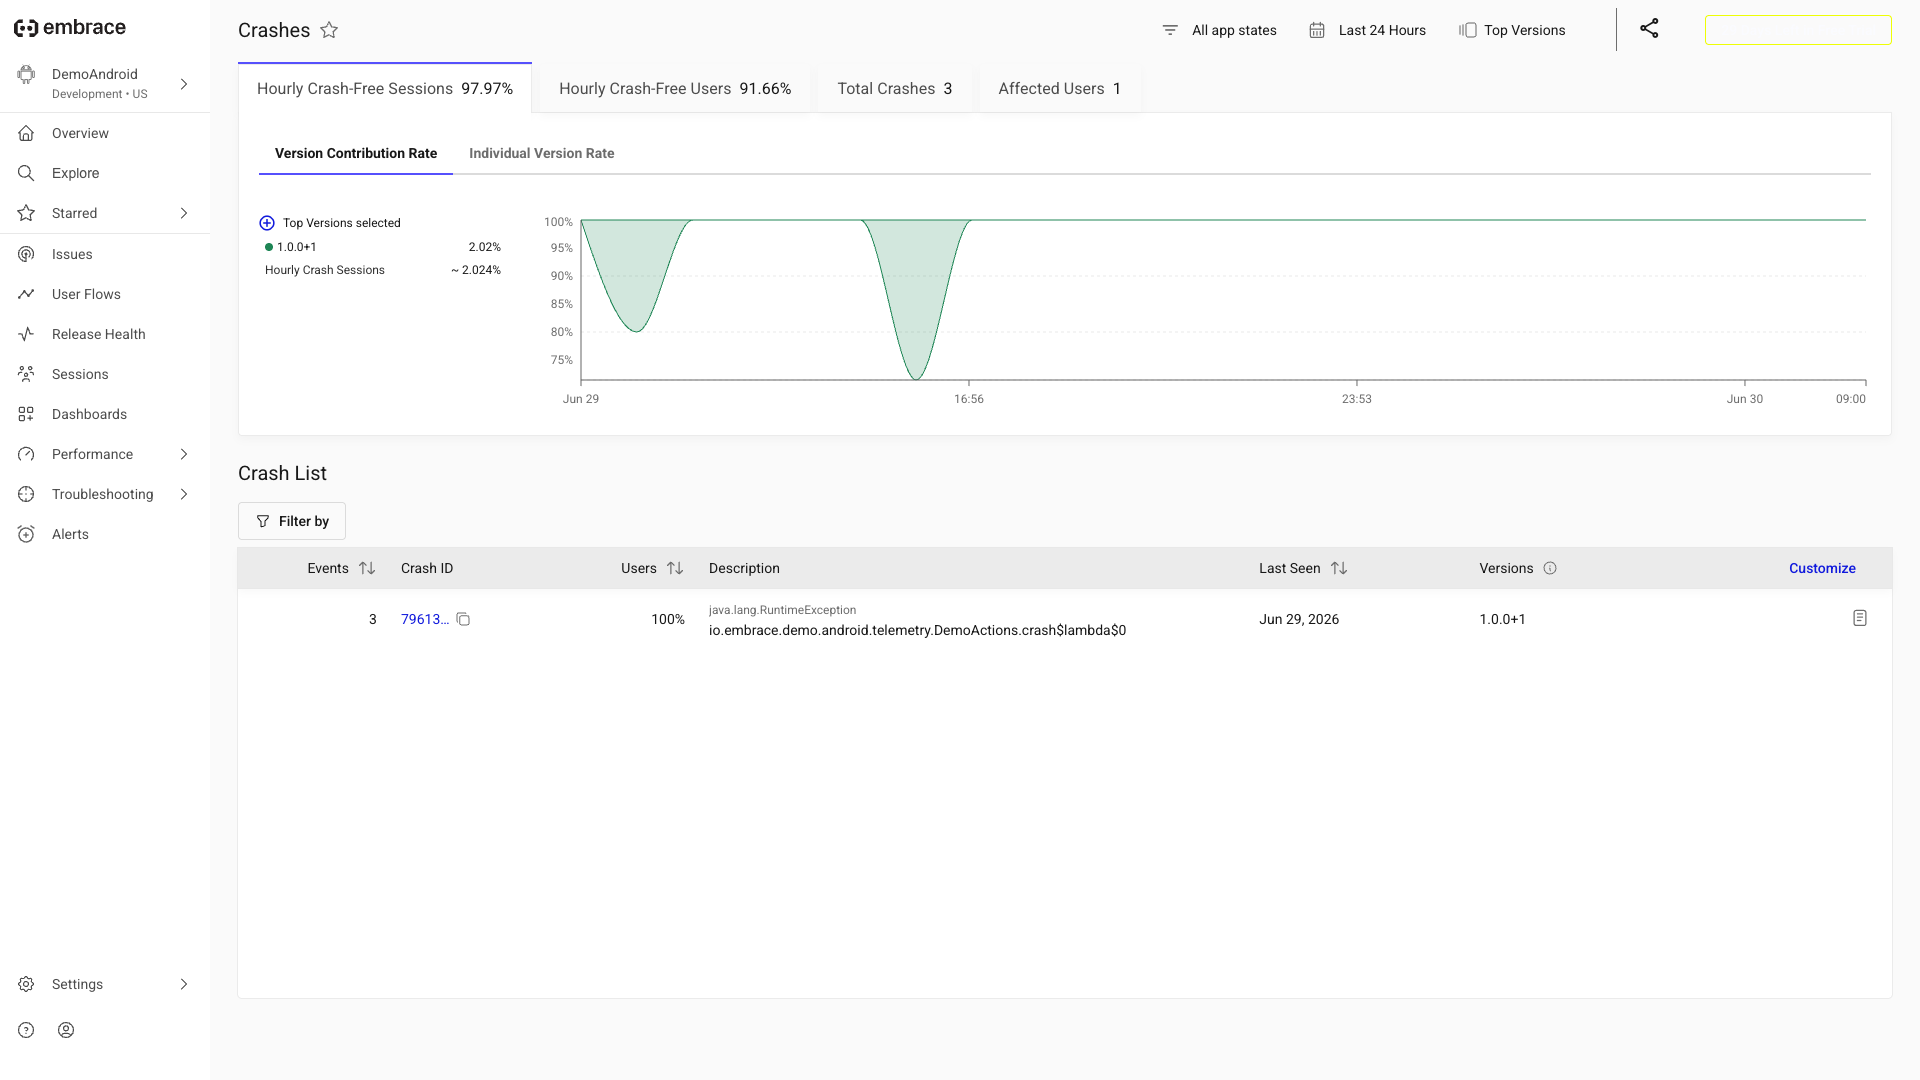
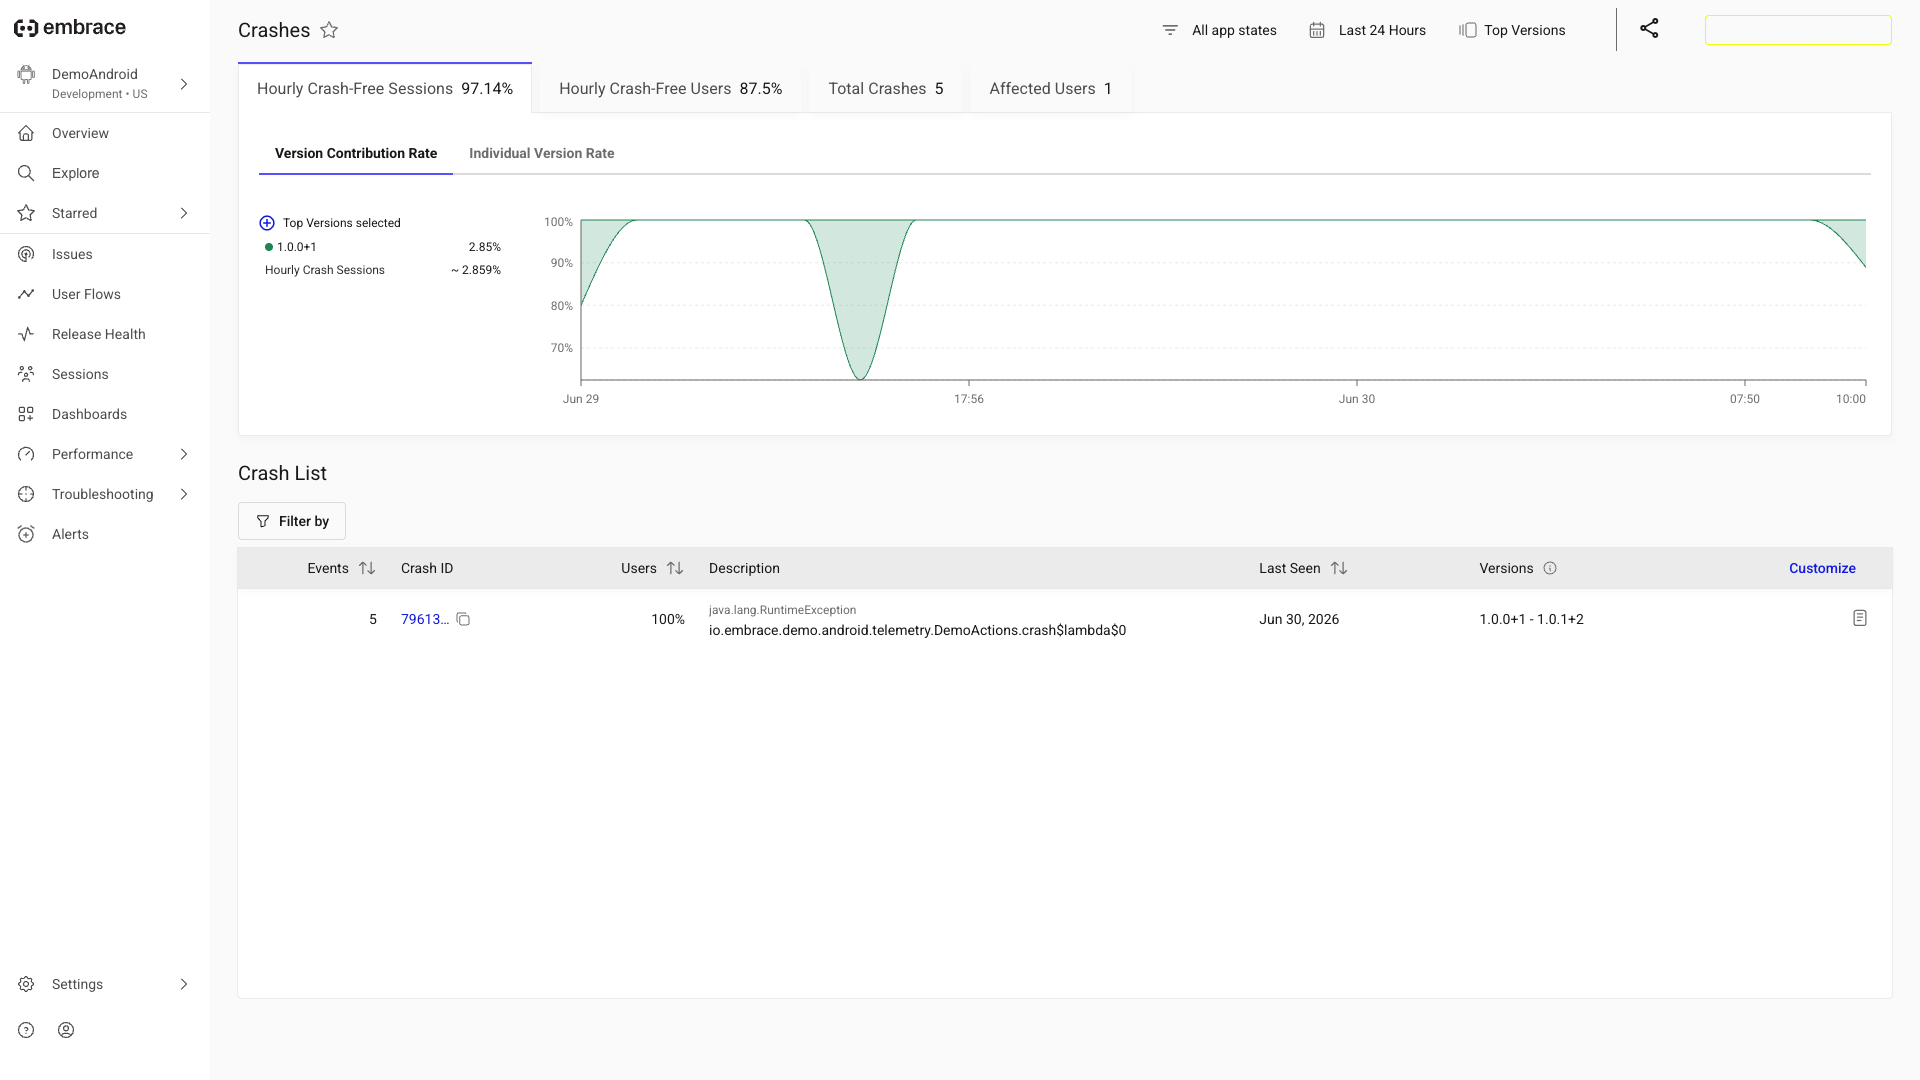
level-3 findings (tested): OOM + Compare not cleanly demo-able; refresh crashes
Tested both Level-3 views on Android (built a v2 = versionCode 2 to enable Compare):
- OOM: the oom() action -> java.lang.OutOfMemoryError -> process SIGKILL'd before a clean
  crash report; does NOT populate the OS-OOM view (which needs a silent lmkd kill). Documented.
- Compare: Embrace 'Compare' is a Network Insights comparison needing first-party-domain
  config + captured network -> 'No data found'. Documented.
- crashes.png refreshed: the RuntimeException now spans versions 1.0.0+1 - 1.0.1+2, proving
  multi-version tracking works (the basis Compare uses). README updated with both findings.
Android version + embrace-config app_id reverted; no secrets.

diff --git a/screenshots/embrace/README.md b/screenshots/embrace/README.md
@@ -56,6 +56,14 @@ Platform-honest differences (captured, not hidden):
   - **Android** (plain `OkHttpClient`) → ❌ NOT auto-captured — needs the `EmbraceOkHttp3Interceptor` added to the client (or the gradle plugin's network swazzle). `android/deep/network.png` shows only emb-api SDK traffic.
   - **Flutter** (`package:http` → Dart `HttpClient`) → ❌ NOT auto-captured — Dart's HttpClient uses its own sockets, bypassing the native URLSession that Embrace hooks; needs Dart-side HTTP instrumentation. `flutter/deep/network.png` shows only emb-api traffic.
 - **User Terminated** (Android): `android/deep/user-terminated.png` — 3 user-terminated sessions (recents-swipe), UT-free 97.81%.
-- **Out Of Memory** + **Compare** (2-version) views are not yet populated (need an OOM trigger + a 2nd build — Level 3).
+- **Out Of Memory** view — FINDING (tested): our `oom` action allocates 4 MB chunks until the JVM throws
+  `java.lang.OutOfMemoryError`; the process is then SIGKILL'd (signal 9). This does NOT populate the dedicated
+  **Out Of Memory** view, which tracks *silent OS low-memory-killer (lmkd)* terminations — an in-app heap OOME
+  hits the JVM heap cap first and dies too fast to even write a clean crash report. Not reproducible on a
+  RAM-rich emulator. (The OOM button is wired on all clients; the view stays empty by design.)
+- **Compare** view — FINDING (tested): Embrace's "Compare" is a **Network Insights** comparison that requires
+  *first-party-domain* configuration + captured network calls; with none set up it shows "No data found". (A
+  2nd app version WAS shipped — `crashes.png` now shows the crash spanning versions `1.0.0+1 - 1.0.1+2`, so
+  multi-version tracking works; the Compare view itself just needs first-party-domain config.)
 
 Grafana-side screenshots of the same telemetry: `../20_grafana_overview.png`, `../21_grafana_all_platforms.png`.